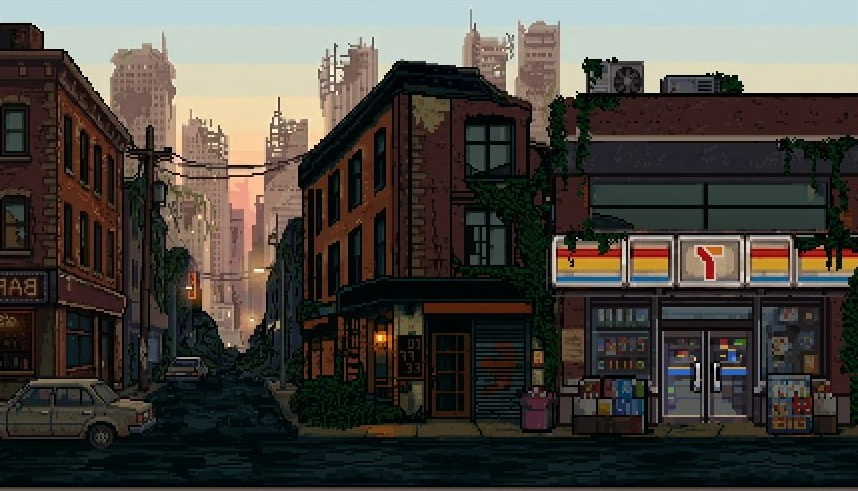
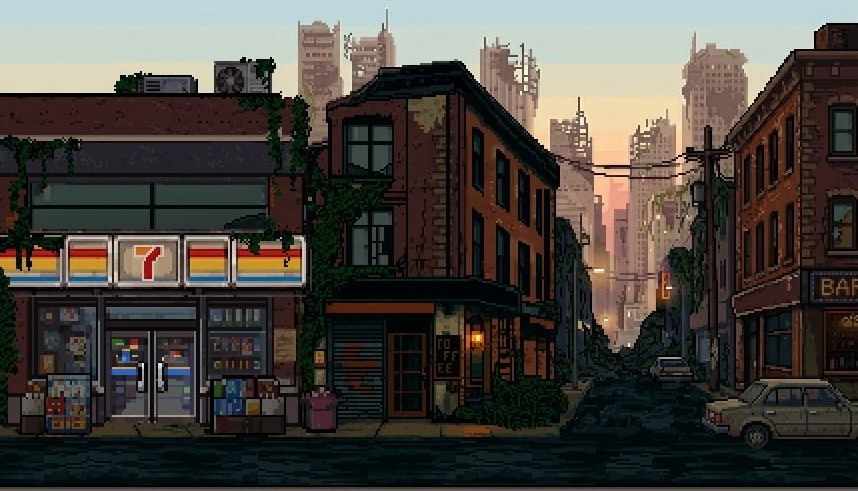
Update Money Manager, Home Screen Image, Upgrade Shop Item Bug

diff --git a/docs/CHANGELOG.md b/docs/CHANGELOG.md
@@ -319,3 +319,8 @@ added.
 - Change the values of sold items and shop items are now dynamically added so that only available things 
 will be sold.
 - The music is changed.
+- Money Manager is added to the start shop and its update function got two lines so that buying will 
+show immediate reduction.
+- Flip the home screen photo horizontally.
+- Upgrade bug is resolved.
+- Popup command about money is solved.
